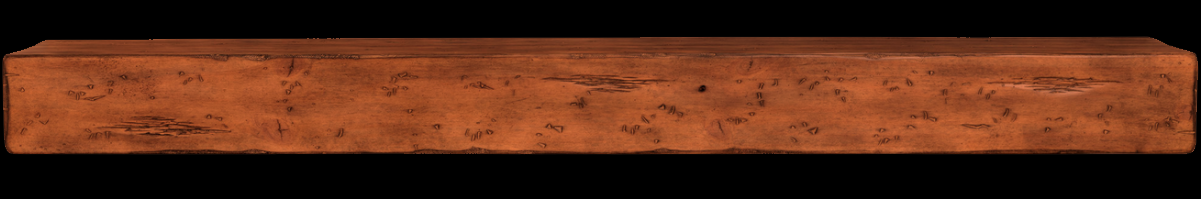
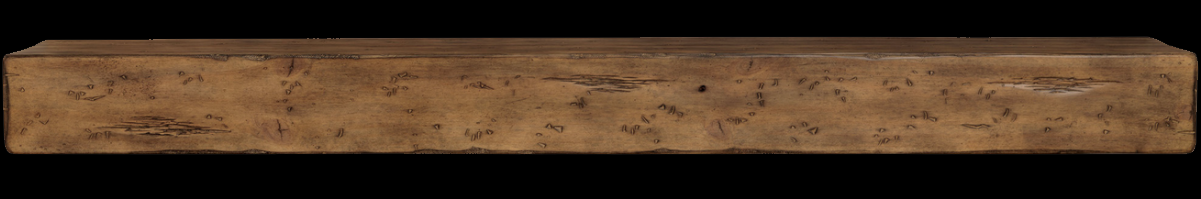
Belly Button

diff --git a/css/style.css b/css/style.css
@@ -74,12 +74,12 @@ button {
     align-items: center;
     height: 8rem;
     width: 100%;
-    background-image: url("../img/background-wood2.png");
+    background-image: url("../img/background-wood.png");
     background-repeat: no-repeat;
     background-size: cover;
     background-position: center;
     padding: 1rem;
-    border: black 1px solid;
+    border: black 3px solid;
 }
 
 .header-img{
@@ -620,12 +620,14 @@ left: 64px;
     position: absolute;
     z-index: 1000;
     height: 5.9rem;
-    top: 19rem;
+    top: 16rem;
     left: 7.5rem;
 }
 .buy-btn:hover {
     cursor: pointer;
     height: 6.2rem;
+    transition: 500ms;
+    filter: contrast(120%);
 }
 
 

diff --git a/index.html b/index.html
@@ -85,16 +85,9 @@
                     <div class="final-price" id="final-price"></div>
                 </a>
             </div>
-
-        </section>
-
-
-    </main>
-
-    <!-- <footer class="footer">
-    <img class="img-flamme" id="img-flamme" src="img/fire.gif" alt="flamme">
-</footer> -->
-
+            
+        </section>             
+    </main>  
     <script src="js/javascript.js"></script>
 </body>
 
